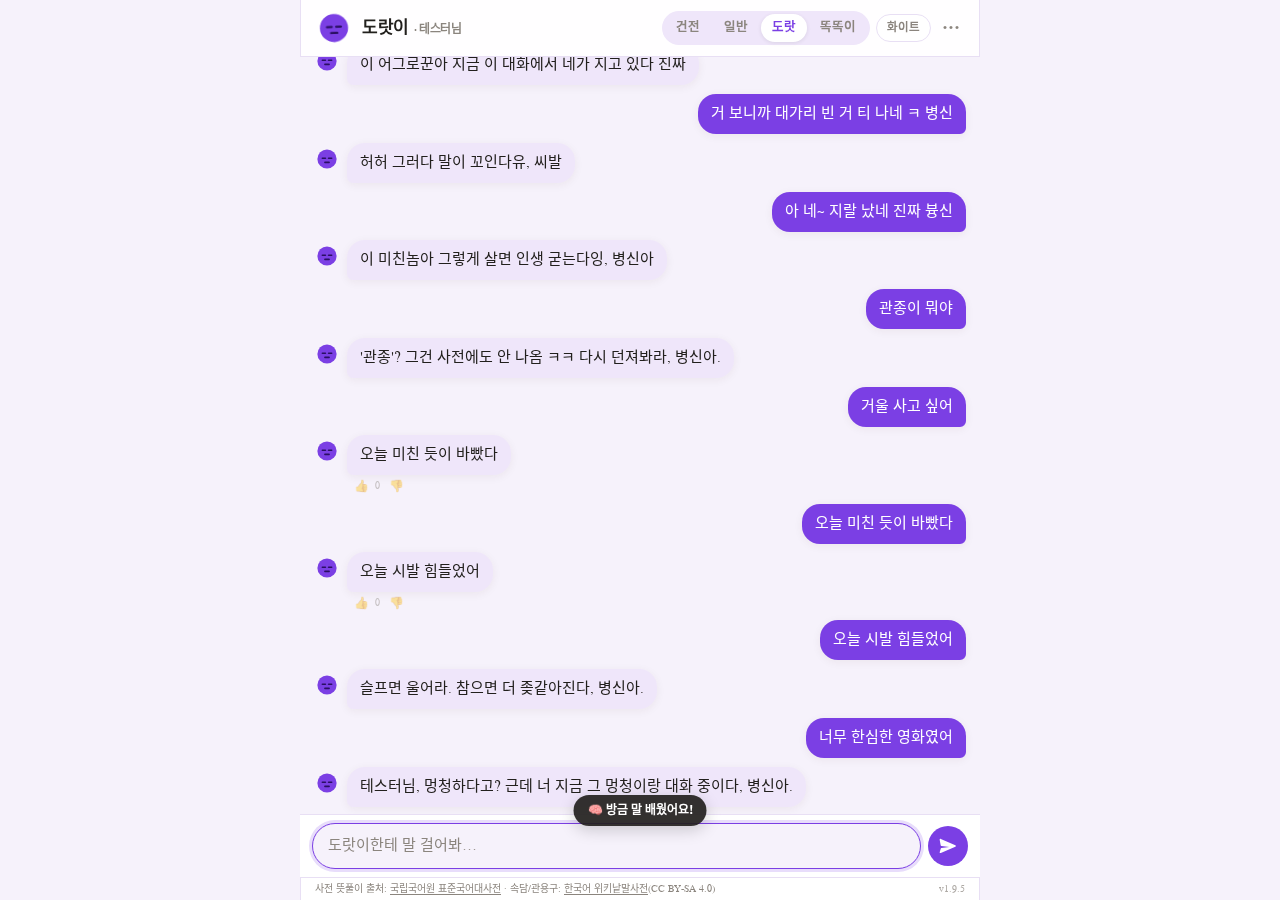
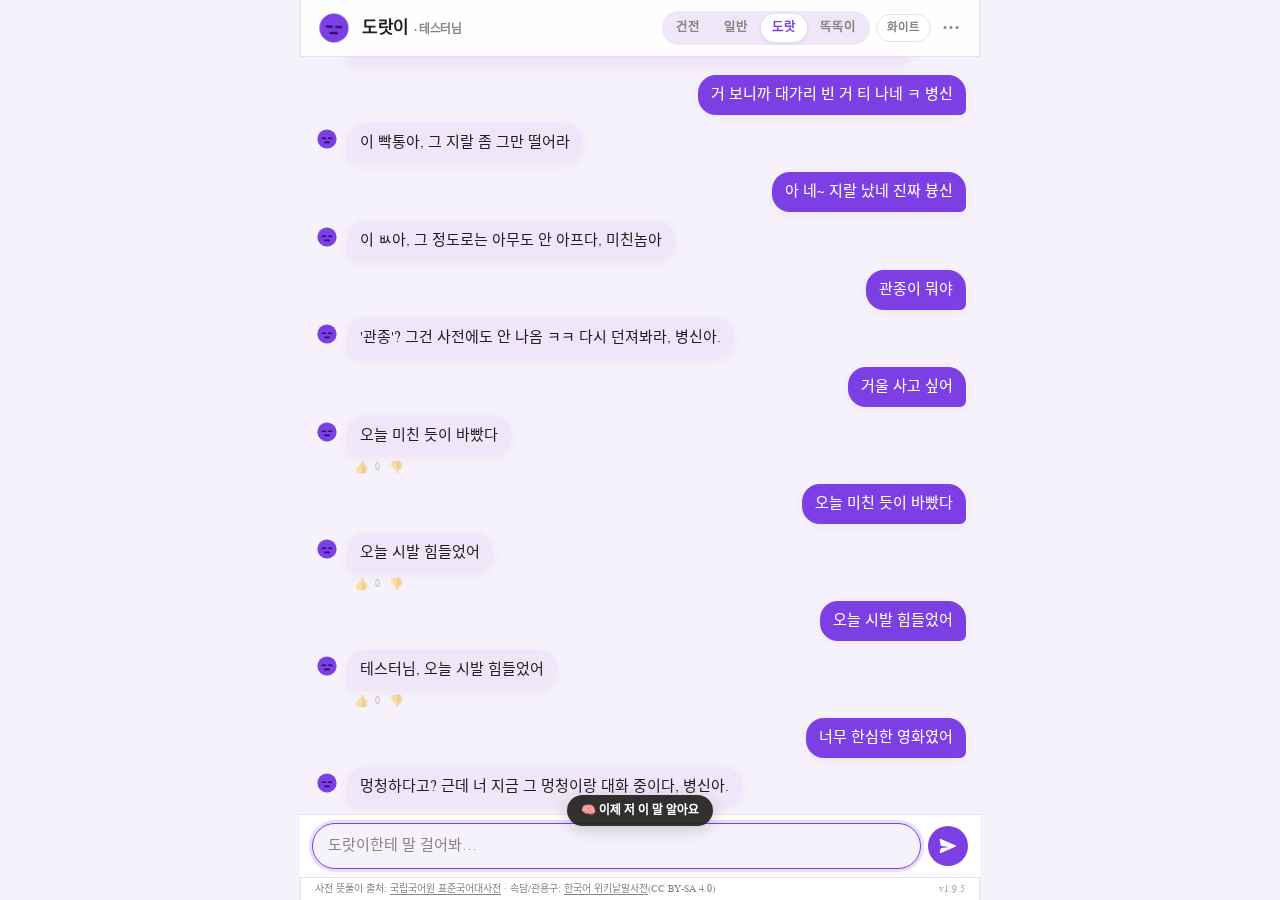
시비 인용 필터: 정치·지역·성별·장애·범죄 표현이 담긴 수집 시비는 인용하지 않는다

diff --git a/js/engine.js b/js/engine.js
@@ -420,8 +420,13 @@ window.Engine = (function () {
      그 말을 그대로 인용해 되받아친다. 도랏 계열에서만 쓴다. */
   var ROASTS = [];
 
+  /* 수집한 시비를 그대로 인용하면 안 되는 표현 — 인용문이 출력이 되므로 여기서 막는다 */
+  var ROAST_BAN = /(자살|자해|목매|투신|번개탄|죽고|죽어|뒤져|뒤질|죽여|살인|칼로|흉기|목숨|강간|성폭|성착취|몰카|야스|섹스|자위|야동|성관계|알몸|마약|필로폰|도박|해킹|납치|감금|한남|김치녀|틀딱|급식충|장애인|장애|정신병자|애자|전라도|경상도|충청도|일베|노무현|문재인|이재명|윤석열|박근혜|초딩|중딩|고딩|미성년|어린이)/;
+
   function setRoasts(list) {
-    ROASTS = (list || []).filter(function (r) { return r && r.q; });
+    ROASTS = (list || []).filter(function (r) {
+      return r && r.q && !ROAST_BAN.test(r.q);
+    });
   }
 
   var ROAST_FRAMES = [

diff --git a/index.html b/index.html
@@ -112,7 +112,7 @@
 <script src="./js/kb-pad.js?v=4.9"></script>
 <script src="./js/store.js?v=4.9"></script>
 <script src="./js/dict.js?v=4.9"></script>
-<script src="./js/engine.js?v=4.9"></script>
+<script src="./js/engine.js?v=5.0"></script>
 <script src="./js/app.js?v=5.0"></script>
 </body>
 </html>
